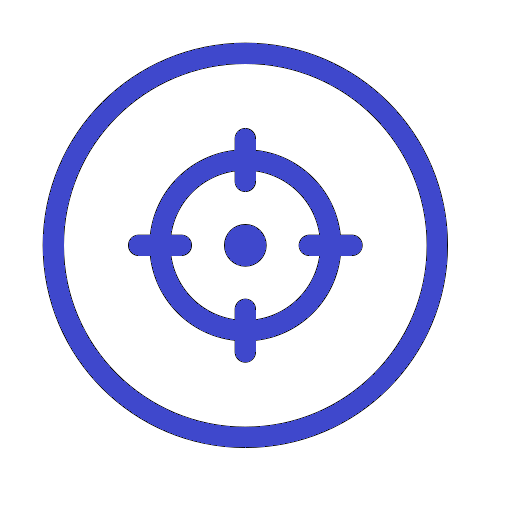
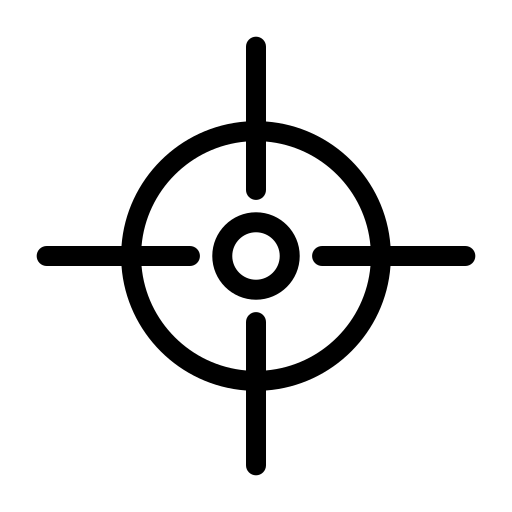
Add files via upload

Changed region(s): [[0.0625, 0.0625, 0.9375, 0.9375]]

diff --git a/index.html b/index.html
@@ -7,7 +7,10 @@
     <meta name="viewport" content="width=device-width, initial-scale=1.0">
     <title>Real Time Vehicle Tracking System</title>
     <link rel="stylesheet" href="https://unpkg.com/leaflet@1.7.1/dist/leaflet.css" />
+    <link rel="stylesheet" href="https://unpkg.com/leaflet-routing-machine@latest/dist/leaflet-routing-machine.css" />
     <script src="https://unpkg.com/leaflet@1.7.1/dist/leaflet.js"></script>
+    <script src="https://unpkg.com/leaflet-routing-machine@latest/dist/leaflet-routing-machine.js"></script>
+
     <link rel="stylesheet" href="styles.css">
 </head>
 <style>
@@ -27,7 +30,6 @@
         overflow: hidden;
     }
 </style>
-<script src="https://unpkg.com/leaflet@1.7.1/dist/leaflet.js"></script>
 
 </head>
 
@@ -35,22 +37,35 @@
     <div id="map"></div>
     <div id="map-container" class="container">
         <div class="search-bar">
-            <input class="input" type="text" placeholder="Search...">
-            <div class="bus-icon">
-                <img src="bus-icon.png" alt="Bus Icon">
+            <div class="top-bar">
+                <input class="input" type="text" placeholder="Start Location">
+                <div class="bus-icon">
+                    <img src="bus-icon.png" alt="Bus Icon">
+                </div>
             </div>
-            <div class="line-under-search-bar"></div>
-        </div>
-        <div class="options">
-            <div class="option option1"><img src="home.png" alt="">
-                Home<span class="location"> Mandi, Himachal Pradesh</span>
+            <div class="bottom-bar">
+                <input class="input" type="text" placeholder="Destination Location">
+                <div class="bus-icon">
+                    <img src="bus-icon.png" alt="Bus Icon">
+                </div>
             </div>
-            <div class="option option2"><img src="recent_icon.png" alt="">Chadwick Falls</div>
-            <div class="option option3"><img src="recent_icon.png" alt="">Manali</div>
-            <div class="option option4" onclick="getlocation"><img src="recent_icon.png" alt="">South Himachal</div>
+            <div class="option-container-top">
+                <div class="option" id="home"><img src="home.png" alt="">Home<span class="location"> Shimla, Himachal
+                        Pradesh</span></div>
+                <div class="option" id="chadwick"><img src="recent_icon.png" alt="">Chadwick Falls</div>
+                <div class="option" id="manali"><img src="recent_icon.png" alt="">Manali</div>
+                <div class="option" id="south"><img src="recent_icon.png" alt="">South Himachal</div>
+            </div>
+            <div class="option-container-bottom">
+                <div class="option" id="home"><img src="home.png" alt="">Home<span class="location"> Shimla, Himachal
+                        Pradesh</span></div>
+                <div class="option" id="chadwick"><img src="recent_icon.png" alt="">Chadwick Falls</div>
+                <div class="option" id="manali"><img src="recent_icon.png" alt="">Manali</div>
+                <div class="option" id="south"><img src="recent_icon.png" alt="">South Himachal</div>
+            </div>
         </div>
     </div>
-    <div class="current" id="current"><img src="circle.jpg" alt=""></div>
+    <div class="current" id="current"><img src="circle.png" alt=""></div>
 </body>
 
 
@@ -59,11 +74,11 @@
     var map = L.map("map").setView([28.7041, 77.1025], 6);
 
     //osm layer
-    var osm = L.tileLayer("https://{s}.tile.openstreetmap.org/{z}/{x}/{y}.png", {
+    var tileLayer = L.tileLayer("https://{s}.tile.openstreetmap.org/{z}/{x}/{y}.png", {
         attribution:
             '&copy; <a href="https://www.openstreetmap.org/copyright">OpenStreetMap</a> contributors',
     });
-    osm.addTo(map);
+    tileLayer.addTo(map);
 
     if (!navigator.geolocation) {
         console.log("Your browser doesn't support geolocation feature!");
@@ -72,19 +87,45 @@
     }
 
 
-    document.getElementById("current").onclick = function() {myFunction()};
+
+
+    document.getElementById("current").onclick = function () {
+        navigator.geolocation.getCurrentPosition(getPosition);
+        myFunction
+    };
+
+
+    document.getElementById("manali").onclick = function () {
+        console.log("clicked");
+        navigator.geolocation.getCurrentPosition(myFunction);
+    };
+
 
     function myFunction() {
-        navigator.geolocation.getCurrentPosition(getPosition);
+        goto([32.2432, 77.1892, 8])
     }
 
     var marker, circle;
 
+    var taxiIcon = L.icon({
+        iconUrl: 'destination.png',
+        iconSize: [70, 70]
+    })
+
+    const cpos = [];
+
     function getPosition(position) {
         // console.log(position)
-        var lat = position.coords.latitude;
-        var long = position.coords.longitude;
-        var accuracy = position.coords.accuracy;
+        // var lat = position.coords.latitude;
+        // var long = position.coords.longitude;
+        // var accuracy = position.coords.accuracy;
+        var lat = 31.1048;
+        var long = 77.1734;
+        var accuracy = 8;
+
+        cpos[0] = lat;
+        cpos[1] = long;
+        cpos[2] = accuracy;
 
         if (marker) {
             map.removeLayer(marker);
@@ -95,29 +136,86 @@
         }
 
         var greenIcon = L.icon({
-            iconUrl: 'location.png',
+            iconUrl: 'current.png',
 
-            iconSize:     [50, 50], 
-            iconAnchor:   [25, 50], 
+            iconSize: [50, 50],
+            iconAnchor: [25, 50],
 
         });
 
-        marker = L.marker([lat, long],{icon: greenIcon});
+        marker = L.marker([lat, long], { icon: greenIcon });
         circle = L.circle([lat, long], { radius: accuracy });
 
         var featureGroup = L.featureGroup([marker, circle]).addTo(map);
 
         map.fitBounds(featureGroup.getBounds());
 
-        console.log(
-            "Your coordinate is: Lat: " +
-            lat +
-            " Long: " +
-            long +
-            " Accuracy: " +
-            accuracy
-        );
+        console.log("Your coordinate is: Lat: " + lat + " Long: " + long + " Accuracy: " + accuracy);
     }
+
+
+
+    function goto(position) {
+        // console.log(position)
+        const event = new Event("start");
+        var lat = position[0];
+        var long = position[1];
+        var accuracy = position[2];
+        console.log(cpos[0] + " " + cpos[1]);
+
+        if (marker) {
+            map.removeLayer(marker);
+        }
+
+        if (circle) {
+            map.removeLayer(circle);
+        }
+
+        var greenIcon = L.icon({
+            iconUrl: 'destination.png',
+
+            iconSize: [50, 50],
+            iconAnchor: [25, 50],
+
+        });
+
+        marker = L.marker([lat, long]);
+
+        circle = L.circle([lat, long], { radius: accuracy });
+
+        var featureGroup = L.featureGroup([marker, circle]).addTo(map);
+
+        map.fitBounds(featureGroup.getBounds());
+
+        console.log("Your coordinate is: Lat: " + lat + " Long: " + long + " Accuracy: " + accuracy);
+
+        document.addEventListener("start", () => {
+            L.Routing.control({
+                waypoints: [L.latLng(position[0], position[1]), L.latLng(cpos[0], cpos[1])]
+            }).on('routesfound', function (e) {
+                var routes = e.routes;
+                console.log(routes);
+            }).addTo(map);
+        });
+
+
+        document.dispatchEvent(event);
+    }
+
+
+
+    var taxiIcon = L.icon({
+        iconUrl: 'destination.png',
+        iconSize: [70, 70]
+    })
+
+
+
+
+
+
+
+
 </script>
 
 </html>

diff --git a/styles.css b/styles.css
@@ -12,30 +12,41 @@ body {
     width: 430px;
     height: 300px;
     position: absolute;
-    top: 23px;
-    right: 31px;
+    left: 3rem;
 
 
 }
 
-.search-bar {
+.search-bar , .top-bar , .bottom-bar {
+    position: relative;
     margin: 20px;
+    width: 25rem;
     padding: 10px;
-    height: 30px;
-    font-size: large;
+    height: 2.2rem;
+    font-size: 1rem;
     background-color: white;
-    border-radius: 10px;
+    border-radius: 5rem;
+    font-family: 'Alike', 'Times New Roman', Times, serif;
     box-shadow: 0px 0px 5px rgba(0, 0, 0, 0.2);
+}
+
+.top-bar{
+    top:-2rem;
+    right: 2rem;
+}
+
+.bottom-bar{
+    right: 2rem;
+    top: -2.5rem;
 }
 
 .search-bar input{
     width: 80%;
-    height:30px;
-    top: 40px;
-    left: 55px;
+    position: relative;
+    top: 0.25rem;
+    right: -1rem;
     font-family: 'Alike', 'Times New Roman', Times, serif;
-    font-size: 18px;
-    line-height: 37.62px;
+    font-size: 1.5rem;
     letter-spacing: 0em;
     text-align: left;
     border: black;
@@ -45,33 +56,43 @@ body {
 }
 
 
-
-.line-under-search-bar {
-    border-bottom: 2px solid #2E2B2B;
-    margin-top: -3px;
-}
-
-.options {
-    margin: 20px;
-    margin-top: 5px;
-    display: none;
-    align-items: center;
-    font-size: 15px;
-}
-
 .option {
+    position: absolute;
+    display: none;
     margin-bottom: 5px;
-    padding: 10px;
+    padding: 1rem;
+    font-size: large;
     background-color: white;
-    border-radius: 10px;
-    box-shadow: 0px 0px 5px rgba(0, 0, 0, 0.2);
+    border-radius: 2rem;
+    left: -0.2rem;
 }
+
+#home{
+    padding-right: 8rem;
+    top: 8rem;
+}
+
+#chadwick{
+    padding-right: 16rem;
+    top: 12rem;
+}
+#manali{
+    padding-right: 20rem;
+    top: 16rem;
+}
+#south{
+    padding-right: 16rem;
+    top: 20rem;
+}
+
+
 
 .option:hover {
     background-color: #F1F3F8;
 }
 
-.search-bar:focus-within + .options{
+
+.search-bar:focus-within .option{
     display: block;
 }
 
@@ -79,20 +100,20 @@ body {
     position: relative;
     width: 30px;
     height: 22px;
-    top: 5px;
-    left: 85%;
+    left: 90%;
     transform: translateY(-110%);
 }
 
 .bus-icon img{
     position: relative;
-    width: 80%;
-    height: 80%;
+    top: .3rem;
+    width: 85%;
+    height: 85%;
     display: block;
     
 }
 
-.options .option img{
+.search-bar .option img{
     position: relative;
     padding-right: 15px;
     height: 18px;
@@ -103,19 +124,6 @@ body {
 .location{
     opacity: 60%;
     background: transparent;
-}
-
-.options{
-    font-family: 'Alike', 'Times New Roman', Times, serif;
-    
-}
-
-.leaflet-top {
-    bottom: 50px;
-}
-
-.leaflet-left {
-    right: 50px;
 }
 
 
